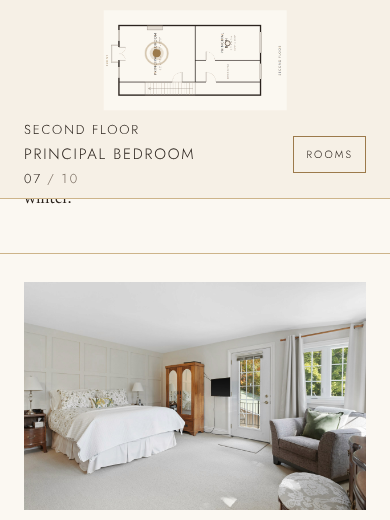
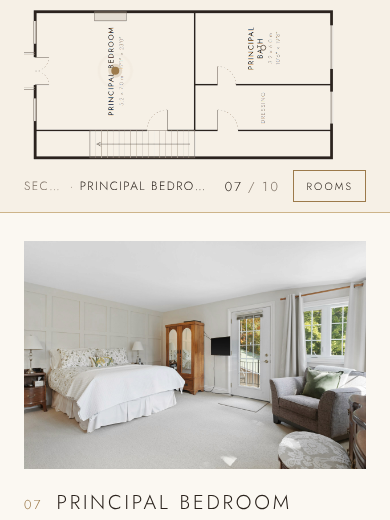
Phone bar: 150px clipped plan box with zoom, one-line caption
Plan and dots are enlarged by a Phone Plan Zoom control (default 1.4,
ground-floor walls just inside the box) and shifted when needed so every
dot of the floor stays visible. The plan background blends away into the
champagne bar. Floor, room, counter and a 32px Rooms button share one line.

Claude-Session: https://claude.ai/code/session_011k2BEF6oo96ijfZfHt2ZWj

diff --git a/framer/code/GarelliTour.tsx b/framer/code/GarelliTour.tsx
@@ -164,6 +164,7 @@ export default function GarelliTour(props: GarelliTourProps) {
     const [view, setView] = useState({ active: 0, visit: 0, floorPos: {} as Record<number, { x: number; y: number }> })
 
     const phone = width !== null && width < 810
+    const zoom = Math.min(3, Math.max(1, num(props.phonePlanZoom) ?? 1.4))
     const gutter = width === null || width >= 1200 ? 64 : width >= 810 ? 40 : 24
 
     useEffect(() => {
@@ -300,6 +301,12 @@ export default function GarelliTour(props: GarelliTourProps) {
         openRef.current?.focus({ preventScroll: true })
     }
 
+    function onPlanLoad(index: number, img: HTMLImageElement) {
+        if (!img.naturalWidth || !img.naturalHeight) return
+        const next = { w: img.naturalWidth, h: img.naturalHeight }
+        setNatural((prev) => (prev[index]?.w === next.w && prev[index]?.h === next.h ? prev : { ...prev, [index]: next }))
+    }
+
     function go(i: number) {
         const el = roomRefs.current[i]
         if (!el) return
@@ -370,18 +377,67 @@ export default function GarelliTour(props: GarelliTourProps) {
                 <aside ref={panelRef} aria-label="Floor plan" style={panelStyle}>
                     <div
                         ref={stageRef}
-                        style={phone ? { position: "relative", width: "100%", height: 100 } : { position: "relative", flex: 1, minHeight: 0 }}
+                        style={phone ? { position: "relative", width: "100%", height: 150, overflow: "hidden" } : { position: "relative", flex: 1, minHeight: 0 }}
                     >
                         {floors.map((floor) => {
                             const nat = natural[floor.index] ?? { w: 368, h: 672 }
                             // Telefoon: plattegrond + stippen liggen samen in één laag die 90° tegen de klok in draait
-                            const s = !stage.w || !stage.h ? 0 : phone ? Math.min(stage.w / nat.h, stage.h / nat.w) : Math.min(stage.w / nat.w, stage.h / nat.h)
+                            const s = !stage.w || !stage.h ? 0 : phone ? Math.min(stage.w / nat.h, stage.h / nat.w) * zoom : Math.min(stage.w / nat.w, stage.h / nat.h)
                             const bw = nat.w * s
                             const bh = nat.h * s
+                            // Telefoon: na draaien ligt een punt (u, v) vanaf het midden op (v, -u); schuif zo nodig zodat alle stippen van deze verdieping in het vak blijven
+                            let dx = 0
+                            let dy = 0
+                            if (phone && s) {
+                                const m = 14
+                                const sx = floor.rooms.map((i) => (rooms[i].y / 100 - 0.5) * bh)
+                                const sy = floor.rooms.map((i) => -(rooms[i].x / 100 - 0.5) * bw)
+                                const fit = (lo: number, hi: number, half: number) =>
+                                    hi - lo > 2 * (half - m) ? -(lo + hi) / 2 : Math.max(-half + m - lo, Math.min(0, half - m - hi))
+                                dx = fit(Math.min(...sx), Math.max(...sx), stage.w / 2)
+                                dy = fit(Math.min(...sy), Math.max(...sy), stage.h / 2)
+                            }
                             const on = floor.index === currentFloor.index
                             const pos =
                                 (on ? { x: current.x, y: current.y } : view.floorPos[floor.index]) ??
                                 { x: rooms[floor.rooms[0]].x, y: rooms[floor.rooms[0]].y }
+                            if (phone) {
+                                const layer: CSSProperties = {
+                                    position: "absolute",
+                                    top: (stage.h - bh) / 2,
+                                    left: (stage.w - bw) / 2,
+                                    width: bw,
+                                    height: bh,
+                                    transform: `translate(${dx}px, ${dy}px) rotate(-90deg)`,
+                                    opacity: on ? 1 : 0,
+                                    visibility: on ? "visible" : "hidden",
+                                }
+                                return (
+                                    <div key={floor.index} aria-hidden={!on}>
+                                        <div className={on ? "gt-floor gt-on" : "gt-floor"} style={{ ...layer, mixBlendMode: "darken" }}>
+                                            {hasImage(floor.plan) && (
+                                                <img
+                                                    src={floor.plan!.src}
+                                                    alt={floor.plan!.alt || `${floor.name} plan`}
+                                                    draggable={false}
+                                                    onLoad={(e) => onPlanLoad(floor.index, e.currentTarget)}
+                                                    style={{ display: "block", width: "100%", height: "100%", userSelect: "none" }}
+                                                />
+                                            )}
+                                        </div>
+                                        <div className={on ? "gt-floor gt-on" : "gt-floor"} style={layer}>
+                                            {floor.rooms.map((i) => (
+                                                <span key={i} className="gt-mk" aria-hidden style={{ left: `${rooms[i].x}%`, top: `${rooms[i].y}%` }} />
+                                            ))}
+                                            <span
+                                                key={on ? `a${view.visit}` : "i"}
+                                                className="gt-here"
+                                                style={{ left: `${pos.x}%`, top: `${pos.y}%` }}
+                                            />
+                                        </div>
+                                    </div>
+                                )
+                            }
                             return (
                                 <div
                                     key={floor.index}
@@ -389,11 +445,10 @@ export default function GarelliTour(props: GarelliTourProps) {
                                     aria-hidden={!on}
                                     style={{
                                         position: "absolute",
-                                        top: phone ? (stage.h - bh) / 2 : 0,
+                                        top: 0,
                                         left: (stage.w - bw) / 2,
                                         width: bw,
                                         height: bh,
-                                        transform: phone ? "rotate(-90deg)" : undefined,
                                         opacity: on ? 1 : 0,
                                         visibility: on ? "visible" : "hidden",
                                     }}
@@ -403,16 +458,7 @@ export default function GarelliTour(props: GarelliTourProps) {
                                             src={floor.plan!.src}
                                             alt={floor.plan!.alt || `${floor.name} plan`}
                                             draggable={false}
-                                            onLoad={(e) => {
-                                                const img = e.currentTarget
-                                                if (!img.naturalWidth || !img.naturalHeight) return
-                                                const next = { w: img.naturalWidth, h: img.naturalHeight }
-                                                setNatural((prev) =>
-                                                    prev[floor.index]?.w === next.w && prev[floor.index]?.h === next.h
-                                                        ? prev
-                                                        : { ...prev, [floor.index]: next }
-                                                )
-                                            }}
+                                            onLoad={(e) => onPlanLoad(floor.index, e.currentTarget)}
                                             style={{ display: "block", width: "100%", height: "100%", userSelect: "none" }}
                                         />
                                     )}
@@ -422,8 +468,7 @@ export default function GarelliTour(props: GarelliTourProps) {
                                             type="button"
                                             className="gt-mk"
                                             aria-label={`Go to ${rooms[i].name}`}
-                                            tabIndex={phone || !on ? -1 : 0}
-                                            aria-hidden={phone || undefined}
+                                            tabIndex={on ? 0 : -1}
                                             onClick={() => go(i)}
                                             style={{ left: `${rooms[i].x}%`, top: `${rooms[i].y}%` }}
                                         />
@@ -438,69 +483,83 @@ export default function GarelliTour(props: GarelliTourProps) {
                         })}
                     </div>
 
-                    <div style={phone ? { display: "flex", alignItems: "center", gap: 16 } : { display: "contents" }}>
-                    <div
-                        style={
-                            phone
-                                ? { flex: 1, display: "flex", flexDirection: "column", alignItems: "flex-start", gap: 4, minWidth: 0 }
-                                : { display: "flex", justifyContent: "space-between", alignItems: "baseline", gap: 12 }
-                        }
-                    >
-                        <div
-                            style={{
-                                fontFamily: DISPLAY,
-                                fontWeight: 300,
-                                textTransform: "uppercase",
-                                letterSpacing: "0.14em",
-                                fontSize: phone ? 13 : 17,
-                            }}
-                        >
-                            {currentFloor.name}
-                        </div>
-                        {phone && (
+                    {phone ? (
+                        <div style={{ display: "flex", alignItems: "center", gap: 14, minWidth: 0 }}>
+                            <div
+                                style={{
+                                    flex: 1,
+                                    minWidth: 0,
+                                    display: "flex",
+                                    fontFamily: DISPLAY,
+                                    fontWeight: 300,
+                                    fontSize: 12,
+                                    letterSpacing: "0.12em",
+                                    textTransform: "uppercase",
+                                    whiteSpace: "nowrap",
+                                }}
+                            >
+                                {/* De verdieping kort eerst in, zodat de kamernaam zo lang mogelijk leesbaar blijft */}
+                                <span style={{ color: C.taupe, minWidth: "3.4em", flexShrink: 100000, overflow: "hidden", textOverflow: "ellipsis" }}>
+                                    {currentFloor.name}
+                                </span>
+                                <span style={{ color: C.taupe, flexShrink: 0 }}>&nbsp;·&nbsp;</span>
+                                <span style={{ color: C.ink, minWidth: 0, flexShrink: 1, overflow: "hidden", textOverflow: "ellipsis" }}>
+                                    {current.name}
+                                </span>
+                            </div>
                             <div
                                 style={{
                                     fontFamily: DISPLAY,
                                     fontWeight: 300,
-                                    fontSize: 15,
+                                    fontSize: 13,
                                     letterSpacing: "0.12em",
-                                    textTransform: "uppercase",
+                                    color: C.taupe,
+                                    fontVariantNumeric: "tabular-nums",
                                     whiteSpace: "nowrap",
-                                    overflow: "hidden",
-                                    textOverflow: "ellipsis",
-                                    maxWidth: "100%",
+                                    flex: "0 0 auto",
                                 }}
                             >
-                                {current.name}
+                                <b style={{ color: C.ink, fontWeight: 300 }}>{pad(active + 1)}</b> / {pad(rooms.length)}
                             </div>
-                        )}
-                        <div
-                            style={{
-                                fontFamily: DISPLAY,
-                                fontWeight: 300,
-                                fontSize: 13,
-                                letterSpacing: "0.12em",
-                                color: C.taupe,
-                                fontVariantNumeric: "tabular-nums",
-                            }}
-                        >
-                            <b style={{ color: C.ink, fontWeight: 300 }}>{pad(active + 1)}</b> / {pad(rooms.length)}
+                            <button
+                                ref={openRef}
+                                type="button"
+                                className="gt-btn"
+                                aria-haspopup="dialog"
+                                aria-expanded={sheetOpen}
+                                onClick={() => setSheetOpen(true)}
+                                style={{ height: 32, padding: "0 12px", boxSizing: "border-box" }}
+                            >
+                                Rooms
+                            </button>
                         </div>
-                    </div>
-
-                    {phone ? (
-                        <button
-                            ref={openRef}
-                            type="button"
-                            className="gt-btn"
-                            aria-haspopup="dialog"
-                            aria-expanded={sheetOpen}
-                            onClick={() => setSheetOpen(true)}
-                        >
-                            Rooms
-                        </button>
-                    ) : null}
-                    </div>
+                    ) : (
+                        <div style={{ display: "flex", justifyContent: "space-between", alignItems: "baseline", gap: 12 }}>
+                            <div
+                                style={{
+                                    fontFamily: DISPLAY,
+                                    fontWeight: 300,
+                                    textTransform: "uppercase",
+                                    letterSpacing: "0.14em",
+                                    fontSize: 17,
+                                }}
+                            >
+                                {currentFloor.name}
+                            </div>
+                            <div
+                                style={{
+                                    fontFamily: DISPLAY,
+                                    fontWeight: 300,
+                                    fontSize: 13,
+                                    letterSpacing: "0.12em",
+                                    color: C.taupe,
+                                    fontVariantNumeric: "tabular-nums",
+                                }}
+                            >
+                                <b style={{ color: C.ink, fontWeight: 300 }}>{pad(active + 1)}</b> / {pad(rooms.length)}
+                            </div>
+                        </div>
+                    )}
                     {phone ? null : (
                         <div style={{ display: "flex", flexDirection: "column-reverse", borderTop: `1px solid ${C.goldLine}` }}>
                             {floors.map((floor) => (
@@ -697,5 +756,14 @@ for (let r = 1; r <= ROOM_COUNT; r++) {
     }
     controls[`room${r}PlanX`] = { type: ControlType.Number, title: `Room ${r} Plan X`, defaultValue: 50, min: 0, max: 100, step: 0.1, unit: "%" }
     controls[`room${r}PlanY`] = { type: ControlType.Number, title: `Room ${r} Plan Y`, defaultValue: 50, min: 0, max: 100, step: 0.1, unit: "%" }
+}
+controls.phonePlanZoom = {
+    type: ControlType.Number,
+    title: "Phone Plan Zoom",
+    defaultValue: 1.4,
+    min: 1,
+    max: 3,
+    step: 0.05,
+    description: "Enlarges the plan in the phone bar so the walls fill it; the empty margin around the plan is cut off.",
 }
 addPropertyControls(GarelliTour, controls)
